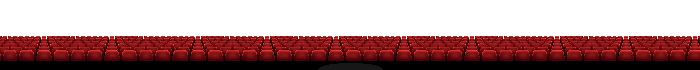
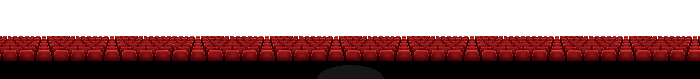
tentativa de celular

diff --git a/render.js b/render.js
@@ -29,7 +29,10 @@ function draw() {
         activeMap = roomBackImg;
     }
     else if (currentMap === "cinema") {
-        activeMap = cinemaSalaImg;
+        // No cinema: desenha fundo preto
+        ctx.fillStyle = "#000000";
+        ctx.fillRect(0, 0, canvas.width, canvas.height);
+        activeMap = null; // Cadeiras serão desenhadas depois, na parte de baixo
     }
 
     if (activeMap) {
@@ -46,24 +49,41 @@ function draw() {
         );
     }
 
-    // 2. PLAYER (não desenha no cinema quando está assistindo)
-    if (!(currentMap === "cinema" && cinemaState === "watching")) {
-        const row = directionMap[player.direction];
-        const sx = player.frame * 32;
-        const sy = row * 32;
-
-        ctx.drawImage(
-            playerImg,
-            sx,
-            sy,
-            32,
-            32,
-            Math.floor(player.x - camX),
-            Math.floor(player.y - camY),
-            32,
-            32
+    // 🎬 DESENHA CADEIRAS DO CINEMA (na parte inferior, atrás do player)
+    if (currentMap === "cinema" && cinemaSalaImg.complete) {
+        // Cadeiras ocupam a parte inferior da tela (60% de baixo para cima)
+        const chairsStartY = canvas.height * 0.65; // Começa em 60% da altura
+        const chairsHeight = canvas.height - chairsStartY;
+        
+        // Mantém proporção da imagem
+        const ratio = Math.min(
+            canvas.width / cinemaSalaImg.width,
+            chairsHeight / cinemaSalaImg.height
         );
+        
+        const w = cinemaSalaImg.width * ratio;
+        const h = cinemaSalaImg.height * ratio;
+        const chairsX = (canvas.width - w) / 2;
+        
+        ctx.drawImage(cinemaSalaImg, chairsX, chairsStartY, w, h);
     }
+
+    // 2. PLAYER (sempre desenha, inclusive no cinema)
+    const row = directionMap[player.direction];
+    const sx = player.frame * 32;
+    const sy = row * 32;
+
+    ctx.drawImage(
+        playerImg,
+        sx,
+        sy,
+        32,
+        32,
+        Math.floor(player.x - camX),
+        Math.floor(player.y - camY),
+        32,
+        32
+    );
 
     if (currentMap === "city") {
         // 3. OBJETOS DO MAPA
@@ -197,18 +217,44 @@ function drawUI() {
 function drawDialogue() {
     if (!currentDialogue) return;
 
+    const isMobile = window.isMobile;
+    const isPortrait = canvas.height > canvas.width;
+    
+    // Ajustes responsivos baseados no dispositivo
     const padding = Math.max(10, canvas.width * 0.02);
-    const boxHeight = Math.min(100, canvas.height * 0.25);
-    const boxY = canvas.height - boxHeight - 10;
+    
+    // Altura do box: maior no mobile portrait
+    let boxHeight;
+    if (isMobile && isPortrait) {
+        boxHeight = Math.min(140, canvas.height * 0.3); // 30% da altura, máx 140px
+    } else if (isMobile) {
+        boxHeight = Math.min(100, canvas.height * 0.25); // 25% no mobile landscape
+    } else {
+        boxHeight = Math.min(100, canvas.height * 0.2); // 20% no desktop
+    }
+    
+    const boxY = canvas.height - boxHeight - padding;
 
+    // Borda branca
     ctx.fillStyle = "white";
     ctx.fillRect(padding - 2, boxY - 2, canvas.width - (padding * 2) + 4, boxHeight + 4);
+    
+    // Fundo preto
     ctx.fillStyle = "black";
     ctx.fillRect(padding, boxY, canvas.width - (padding * 2), boxHeight);
 
     ctx.fillStyle = "white";
     
-    const fontSize = Math.max(10, canvas.height * 0.022);
+    // Tamanho da fonte: maior no mobile
+    let fontSize;
+    if (isMobile && isPortrait) {
+        fontSize = Math.max(14, canvas.height * 0.028); // Maior no mobile vertical
+    } else if (isMobile) {
+        fontSize = Math.max(12, canvas.height * 0.024); // Mobile horizontal
+    } else {
+        fontSize = Math.max(10, canvas.height * 0.022); // Desktop
+    }
+    
     ctx.font = `${fontSize}px 'Courier New', monospace`;
     ctx.textAlign = "left";
     
@@ -219,25 +265,44 @@ function drawDialogue() {
     const words = text.split(' ');
     let line = '';
     let y = boxY + padding + fontSize;
+    const lineHeight = fontSize + 4;
+    const maxLines = Math.floor((boxHeight - padding * 2 - 20) / lineHeight); // Espaço para o hint
+    let lineCount = 0;
     
     for (let word of words) {
         const testLine = line + word + ' ';
         const metrics = ctx.measureText(testLine);
         
         if (metrics.width > maxWidth && line !== '') {
-            ctx.fillText(line, padding + 10, y);
-            line = word + ' ';
-            y += fontSize + 4;
+            if (lineCount < maxLines) {
+                ctx.fillText(line, padding + 10, y);
+                line = word + ' ';
+                y += lineHeight;
+                lineCount++;
+            } else {
+                // Trunca se passar do limite
+                ctx.fillText(line + '...', padding + 10, y);
+                break;
+            }
         } else {
             line = testLine;
         }
     }
-    ctx.fillText(line, padding + 10, y);
     
-    const hintSize = Math.max(8, canvas.height * 0.016);
+    // Última linha
+    if (lineCount < maxLines && line !== '') {
+        ctx.fillText(line, padding + 10, y);
+    }
+    
+    // Hint "Aperte E" - posicionado no canto, não sobrepondo o texto
+    const hintSize = Math.max(9, fontSize * 0.7); // 70% do tamanho do texto
     ctx.font = `${hintSize}px Arial`;
+    ctx.fillStyle = "rgba(255, 255, 255, 0.8)"; // Levemente transparente
     ctx.textAlign = "right";
-    ctx.fillText("Aperte [E] para continuar...", canvas.width - padding - 10, boxY + boxHeight - 10);
+    
+    const hintY = boxY + boxHeight - padding - 5;
+    const hintText = isMobile ? "[E] →" : "Aperte [E] para continuar...";
+    ctx.fillText(hintText, canvas.width - padding - 10, hintY);
 }
 
 function drawFades() {

diff --git a/script.js b/script.js
@@ -4,8 +4,7 @@ const ctx = canvas.getContext("2d");
 const cinemaOverlay = document.getElementById("cinemaOverlay");
 const cinemaIframe  = document.getElementById("cinemaIframe");
 
-const CINEMA_YOUTUBE_URL =
-"https://www.youtube.com/embed/yrFZcAA7M4k?si=CUKCJKDKnhYBQRYx";
+const CINEMA_YOUTUBE_URL = "https://www.youtube.com/embed/yrFZcAA7M4k?si=CUKCJKDKnhYBQRYx";
 
 // Estados do Jogo
 window.teleportFading = false;
@@ -13,7 +12,7 @@ window.teleportFadeOpacity = 0;
 window.teleportStep = ""; 
 window.teleportWaitTime = 0;
 window.isTelescopeOpen = false;
-window.isComputerOpen = false; // NOVO
+window.isComputerOpen = false;
 window.currentDialogue = null;
 window.dialogueIndex = 0;
 window.playerHasCoin = false;
@@ -59,6 +58,28 @@ function update() {
 
     if (isTelescopeOpen || isComputerOpen) return;
 
+    // 🎬 ENTRADA AUTOMÁTICA NO CINEMA (sem pressionar E)
+    if (currentMap === "building" && 
+        cinemaState === "closed" && 
+        isInsideArea(player, cinemaArea)) {
+        
+        currentMap = "cinema";
+        cinemaState = "watching";
+
+        player.x = cinemaSpawn.x;
+        player.y = cinemaSpawn.y;
+
+        cinemaOverlay.style.display = "flex";
+        cinemaIframe.src = CINEMA_YOUTUBE_URL;
+        
+        // Mostra botão de fechar no mobile
+        if (window.isMobile && window.toggleCinemaCloseBtn) {
+            window.toggleCinemaCloseBtn(true);
+        }
+        
+        return;
+    }
+
     // Lógica de Teleporte
     if (!teleportFading && isInsideArea(player, teleportArea)) {
         teleportFading = true;
@@ -95,7 +116,7 @@ function update() {
 
 function loop() {
     update();
-    draw(); // Esta função está no render.js
+    draw();
     requestAnimationFrame(loop);
 }
 
@@ -130,19 +151,14 @@ canvas.addEventListener("click", (e) => {
     const clickX = (e.clientX - rect.left) * scaleX;
     const clickY = (e.clientY - rect.top) * scaleY;
 
-    console.log("Clique detectado em:", clickX, clickY); // DEBUG
-
     // Verifica se clicou em algum ícone
     computerIcons.forEach(icon => {
-        console.log("Verificando ícone:", icon.label, "em", icon.x, icon.y, icon.width, icon.height); // DEBUG
-        
         if (
             clickX >= icon.x &&
             clickX <= icon.x + icon.width &&
             clickY >= icon.y &&
             clickY <= icon.y + icon.height
         ) {
-            console.log("✅ Clicou no ícone:", icon.label, "URL:", icon.url); // DEBUG
             window.open(icon.url, "_blank");
         }
     });

diff --git a/camera.js b/camera.js
@@ -12,15 +12,26 @@ let ZOOM = 4;
 function calculateZoom() {
   const screenWidth = window.innerWidth;
   const screenHeight = window.innerHeight;
+  const isPortrait = screenHeight > screenWidth; // Detecta orientação
   
   if (window.isMobile) {
-    // Mobile: zoom menor para ver mais do mapa
-    if (screenWidth < 400) {
-      ZOOM = 2.5;
-    } else if (screenWidth < 600) {
-      ZOOM = 3;
+    // Mobile: zoom menor para ver mais do mapa e UI maior
+    if (isPortrait) {
+      // Modo retrato (vertical) - zoom ainda menor para UI maior
+      if (screenWidth < 400) {
+        ZOOM = 2;
+      } else if (screenWidth < 600) {
+        ZOOM = 2.3;
+      } else {
+        ZOOM = 2.8;
+      }
     } else {
-      ZOOM = 3.5;
+      // Modo paisagem (horizontal)
+      if (screenWidth < 600) {
+        ZOOM = 2.8;
+      } else {
+        ZOOM = 3.2;
+      }
     }
   } else {
     // Desktop: zoom padrão

diff --git a/input.js b/input.js
@@ -66,29 +66,6 @@ window.addEventListener("keydown", e => {
             return;
         }
 
-        // 🎬 ENTRAR NO CINEMA
-        if (
-            currentMap === "building" &&
-            cinemaState === "closed" &&
-            isPlayerNear(player, cinemaArea)
-        ) {
-            currentMap = "cinema";
-            cinemaState = "watching";
-
-            player.x = cinemaSpawn.x;
-            player.y = cinemaSpawn.y;
-
-            cinemaOverlay.style.display = "flex";
-            cinemaIframe.src = CINEMA_YOUTUBE_URL;
-            
-            // Mostra botão de fechar no mobile
-            if (window.isMobile && window.toggleCinemaCloseBtn) {
-                window.toggleCinemaCloseBtn(true);
-            }
-
-            return;
-        }
-
         // 🚪 SAÍDA CINEMA → PRÉDIO (pressionar E)
         if (currentMap === "cinema") {
             cinemaIframe.src = "";

diff --git a/style.css b/style.css
@@ -27,18 +27,20 @@ canvas {
     left: 0;
     width: 100%;
     height: 100%;
-    background: rgba(0, 0, 0, 0.95);
+    background: transparent;
     display: none;
     justify-content: center;
     align-items: center;
-    z-index: 1000;
+    z-index: 999;
+    pointer-events: none; /* Permite cliques passarem para o canvas */
 }
 
 #cinemaIframe {
     width: 90%;
-    height: 80%;
+    height: 70%;
     max-width: 1200px;
     max-height: 675px;
     border: 3px solid #444;
     box-shadow: 0 0 30px rgba(0, 0, 0, 0.8);
+    pointer-events: auto; /* Mas o iframe em si recebe cliques */
 }

diff --git a/index.html b/index.html
@@ -19,14 +19,15 @@
     </iframe>
   </div>
 
+  <script src="config.js"></script>
   <script src="assets.js"></script>
   <script src="collision.js"></script>
   <script src="camera.js"></script>
+  <script src="player.js"></script>
   <script src="input.js"></script>
   <script src="npcs.js"></script>
-  <script src="player.js"></script>
   <script src="render.js"></script>
   <script src="script.js"></script>
-  <script src="mobile.js"></script> <!-- NOVO -->
+  <script src="mobile.js"></script>
 </body>
 </html>

diff --git a/mobile.js b/mobile.js
@@ -1,10 +1,7 @@
 // ===== CONTROLES MOBILE =====
 
-// Detecta se é mobile
-const isMobile = /Android|webOS|iPhone|iPad|iPod|BlackBerry|IEMobile|Opera Mini/i.test(navigator.userAgent);
-
 // Cria os botões de controle
-if (isMobile) {
+if (window.isMobile) {
     createMobileControls();
 }
 

diff --git a/config.js b/config.js
@@ -1,4 +1,4 @@
-// ===== CONFIGURAÇÕES GLOBAIS =====
+s// ===== CONFIGURAÇÕES GLOBAIS =====
 
 // Detecta se é mobile
 window.isMobile = /Android|webOS|iPhone|iPad|iPod|BlackBerry|IEMobile|Opera Mini/i.test(navigator.userAgent);

diff --git a/player.js b/player.js
@@ -4,7 +4,7 @@ const player = {
     y: 0,
     width: 32,
     height: 32,
-    speed: window.isMobile ? 1.2 : 0.5,
+    speed: window.isMobile ? 1.7 : 0.5,
 
     direction: "down",
     frame: 0,
